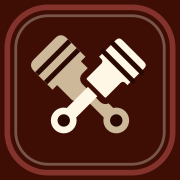
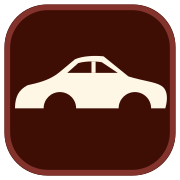
Usa el coche del cartel como emblema y crea la foto de perfil de Instagram
El emblema deja de ser los pistones cruzados y pasa a ser el coche de perfil del cartel de la fachada, que es la imagen que el cliente ya tiene en la calle. Se dibuja en vectorial dentro de la insignia granate, con ventanillas y ruedas recortadas para que se lea a 32 px, y se regeneran los iconos de app (incluido uno maskable para Android).

El footer deja de usar el logotipo antiguo en PNG y pasa a usar el mismo emblema y el mismo wordmark que la cabecera, asi que toda la web muestra una sola marca.

Se anaden tres propuestas de foto de perfil para Instagram a 1080x1080 en marca/, con una vista previa del recorte circular real, y el script que las regenera a partir del mismo dibujo.

diff --git a/css/styles.css b/css/styles.css
@@ -83,7 +83,8 @@ img { max-width: 100%; display: block; }
 .header-inner { display: flex; align-items: center; justify-content: space-between; height: 76px; gap: 1rem; }
 .brand { display: flex; align-items: center; gap: .65rem; text-decoration: none; color: var(--ink); }
 .brand-logo { width: 52px; height: 52px; flex: none; }
-.brand-logo-full { width: 140px; height: 140px; flex: none; border-radius: 14px; }
+.brand-footer .brand-logo { width: 72px; height: 72px; }
+.brand-footer .brand-text { font-size: 1.1rem; }
 .brand-text { font-weight: 600; letter-spacing: .06em; font-size: 1rem; white-space: nowrap; }
 .brand-text strong { font-weight: 900; }
 .nav { display: flex; align-items: center; gap: 1.6rem; }

diff --git a/index.html b/index.html
@@ -338,7 +338,8 @@
     <div class="wrap footer-grid">
       <div>
         <a href="#inicio" class="brand brand-footer" aria-label="Taller Costa Brava — inicio">
-          <img src="img/logo.png" alt="Taller Costa Brava" class="brand-logo-full" width="140" height="140" loading="lazy" decoding="async" />
+          <img src="img/logo-mark.svg" alt="" class="brand-logo" width="72" height="72" loading="lazy" decoding="async" />
+          <span class="brand-text">TALLER <strong>COSTA BRAVA</strong></span>
         </a>
         <p>Taller de reparación de automóviles en Sant Feliu de Guíxols. Mecánica, neumáticos, reprogramaciones, diagnosis, pre-ITV e ITV.</p>
       </div>

diff --git a/README.md b/README.md
@@ -27,6 +27,8 @@ taller mecánico de Sant Feliu de Guíxols (Girona).
   que se desactivan con `prefers-reduced-motion` y nunca dejan contenido oculto.
 - SEO local: meta tags, Open Graph, `manifest` instalable y datos estructurados
   `schema.org/AutoRepair`.
+- Identidad: emblema vectorial propio (el coche del cartel) y foto de perfil de Instagram
+  generada desde el mismo dibujo, para que web y redes se vean igual.
 - Formulario de cita sin backend: abre WhatsApp con el mensaje pre-rellenado,
   con validación accesible en línea (sin `alert()`).
 - Cabeceras de seguridad y de caché definidas en `vercel.json` (CSP, `nosniff`,
@@ -40,32 +42,47 @@ TallerCostaBrava/
 ├── css/styles.css
 ├── js/main.js
 ├── img/
-│   ├── logo-mark.svg        (emblema vectorial: header y favicon)
-│   ├── logo.png             (logotipo completo: footer a 140 px)
+│   ├── logo-mark.svg        (emblema vectorial: header, footer y favicon)
+│   ├── icon-192.png         (icono de app, generado desde el emblema)
+│   ├── icon-512.png         (icono de app)
+│   ├── icon-maskable-512.png(icono de app con zona segura de Android)
 │   ├── apple-touch-icon.png (icono para iOS, generado desde el emblema)
+│   ├── logo.png             (logotipo antiguo del cliente, ya sin uso)
 │   └── *.webp               (fotos del sitio)
+├── marca/
+│   ├── foto-perfil-instagram*.png (foto de perfil 1080 × 1080)
+│   ├── como-se-ve-en-instagram.png(vista previa con recorte circular)
+│   └── build-avatar.mjs     (script que genera esas imágenes)
 └── vercel.json              (configuración de despliegue)
 ```
 
 ## Marca
 
-El logotipo tiene **dos versiones**, según el tamaño al que se use:
+La marca sale del **cartel de la fachada del taller**: el coche de perfil y el nombre
+"TALLER COSTA BRAVA". El emblema del sitio es una recreación vectorial de ese coche.
 
 | Archivo | Qué es | Dónde se usa |
 |---|---|---|
-| `img/logo-mark.svg` | Emblema vectorial: dos pistones cruzados, **sin texto** | Header, favicon, icono de app |
-| `img/logo.png` | Logotipo completo original (insignia con "TALLER" y "COSTA BRAVA") | Footer, a **140 px** |
+| `img/logo-mark.svg` | Emblema vectorial: coche de perfil dentro de la insignia granate, **sin texto** | Header (52 px), footer (72 px), favicon, iconos de app |
+| `img/icon-192.png` · `img/icon-512.png` · `img/icon-maskable-512.png` | 192 / 512 / 512 px, generados desde el emblema | PWA y pantalla de inicio (Android) |
 | `img/apple-touch-icon.png` | 180 × 180 px, generado desde el emblema | iOS (guardar en inicio) |
+| `img/logo.png` | Logotipo antiguo que aportó el cliente | **Sin uso**: se conserva solo como archivo histórico |
 
-**Por qué dos versiones:** la tipografía curva de la insignia es ilegible por debajo de
-~120 px, así que a tamaño de cabecera (52 px) se usa el emblema sin texto y el nombre lo
-escribe el HTML, siempre nítido. El logotipo completo aparece a 140 px en el footer, que es
-donde se lee bien.
+**Por qué un emblema sin texto:** la tipografía de la insignia original es ilegible por
+debajo de ~120 px, así que a tamaño de cabecera (52 px) se usa el símbolo y el nombre lo
+escribe el HTML, siempre nítido. Antes el emblema eran dos pistones cruzados; ahora es el
+coche del cartel, que es lo que la gente asocia al taller cuando pasa por delante.
 
-El emblema es una **recreación vectorial** del original (mismos colores y motivo: pistones
-cruzados), pensada para verse limpia a cualquier tamaño y con un peso de ~1 KB. Si en el
-futuro se consigue el logo completo en vectorial (SVG/AI/PDF) del diseñador, basta con
-sustituir `img/logo-mark.svg` manteniendo el mismo `viewBox="0 0 64 64"`.
+**Cómo está dibujado** (`viewBox="0 0 64 64"`, ~1 KB):
+
+- Carrocería en **crema `#fff7e6`** sobre insignia granate `#3e0e05` con aro `#83322c`.
+- Las ventanillas, el pilar B y las ruedas van **recortados** en el color de la insignia,
+  así que el coche se lee igual a 512 px que a 32 px, sin líneas finas que se pierdan.
+- Sin degradados ni sombras: se ve idéntico en pantalla, en un icono de app y en impresión.
+
+> Si algún día llega el logo en vectorial del diseñador, basta con sustituir
+> `img/logo-mark.svg` manteniendo el mismo `viewBox="0 0 64 64"`; los PNG de `img/` se
+> regeneran rasterizando ese mismo SVG (con `sharp`, o con cualquier exportador de SVG).
 
 ### Iconos
 
@@ -93,6 +110,31 @@ plantilla, para que ninguno destaque por color, estilo o grosor:
 oscuro `#63211b` (hover), crema `#f7f2e6` (fondos alternos) y negro cálido `#1f0d08`
 (secciones oscuras y footer). Están como variables en `:root` al principio de
 `css/styles.css`.
+
+## Foto de perfil de Instagram
+
+En `marca/` están las tres propuestas, ya a **1080 × 1080** (el tamaño que pide Instagram), y
+una vista previa con el **recorte circular real** de la app a 150, 96, 48 y 32 px:
+
+| Archivo | Qué es |
+|---|---|
+| `marca/foto-perfil-instagram.png` | **Opción recomendada**: coche grande + "TALLER COSTA BRAVA", aro granate |
+| `marca/foto-perfil-instagram-b.png` | La insignia del sitio + nombre |
+| `marca/foto-perfil-instagram-c.png` | Como el cartel de la fachada, con la banda roja de servicios |
+| `marca/como-se-ve-en-instagram.png` | Vista previa de las tres con recorte redondo |
+
+Se sube tal cual desde el móvil o el ordenador (Instagram la recorta en círculo y la reduce
+a 320 px). La opción A es la que mejor aguanta ese recorte: el coche sigue leyéndose y el
+nombre no se convierte en una mancha.
+
+Para regenerarlas tras cambiar el coche del emblema:
+
+```bash
+npm i puppeteer-core @sparticuz/chromium
+node marca/build-avatar.mjs
+# o, con un Chrome ya instalado:
+CHROME_PATH=/usr/bin/google-chrome node marca/build-avatar.mjs
+```
 
 ## Accesibilidad y buenas prácticas
 
@@ -132,7 +174,9 @@ Comprobado con navegador real (Chromium) en escritorio (1440 px) y móvil (390 p
    1920 × 1080; las de la galería, idealmente 1200 px de ancho.
 3. **Textos legales**: faltan *Aviso legal*, *Política de privacidad* y, si se
    activa analítica, *Cookies*.
-4. **Logo vectorial** del diseñador (SVG/AI/PDF) para sustituir los PNG.
+4. **Logo del diseñador**: el emblema actual es una recreación vectorial del coche del
+   cartel. Si el diseñador entrega el original (SVG/AI/PDF), se sustituye `img/logo-mark.svg`
+   sin tocar nada más.
 
 ## Uso local
 
